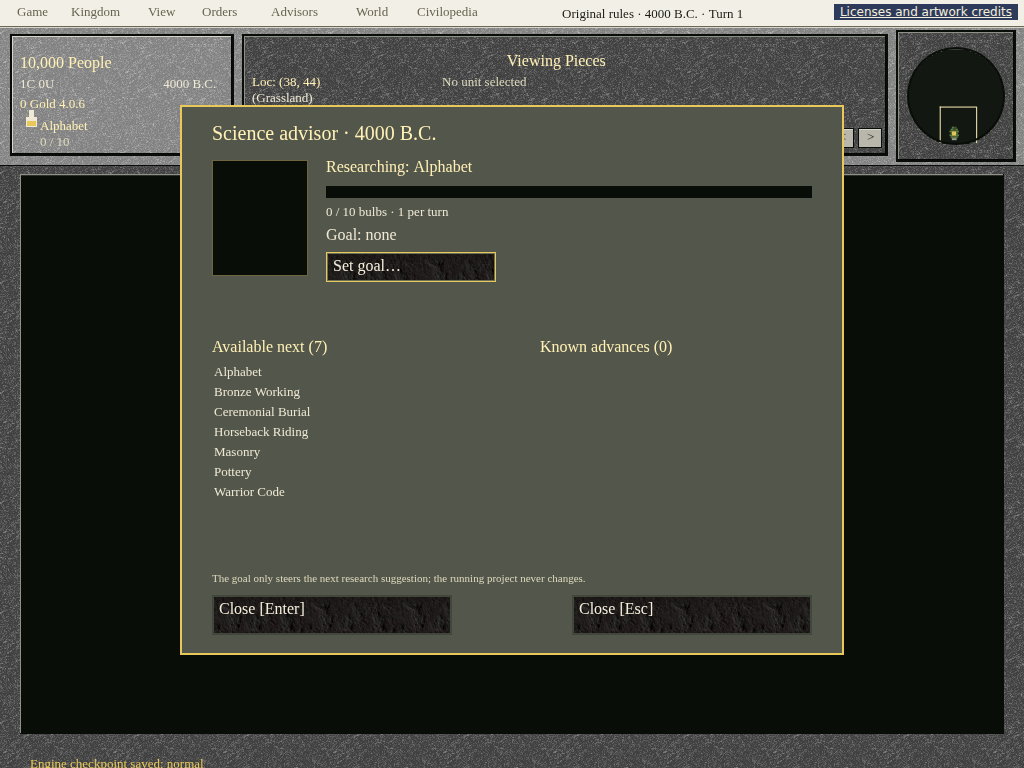
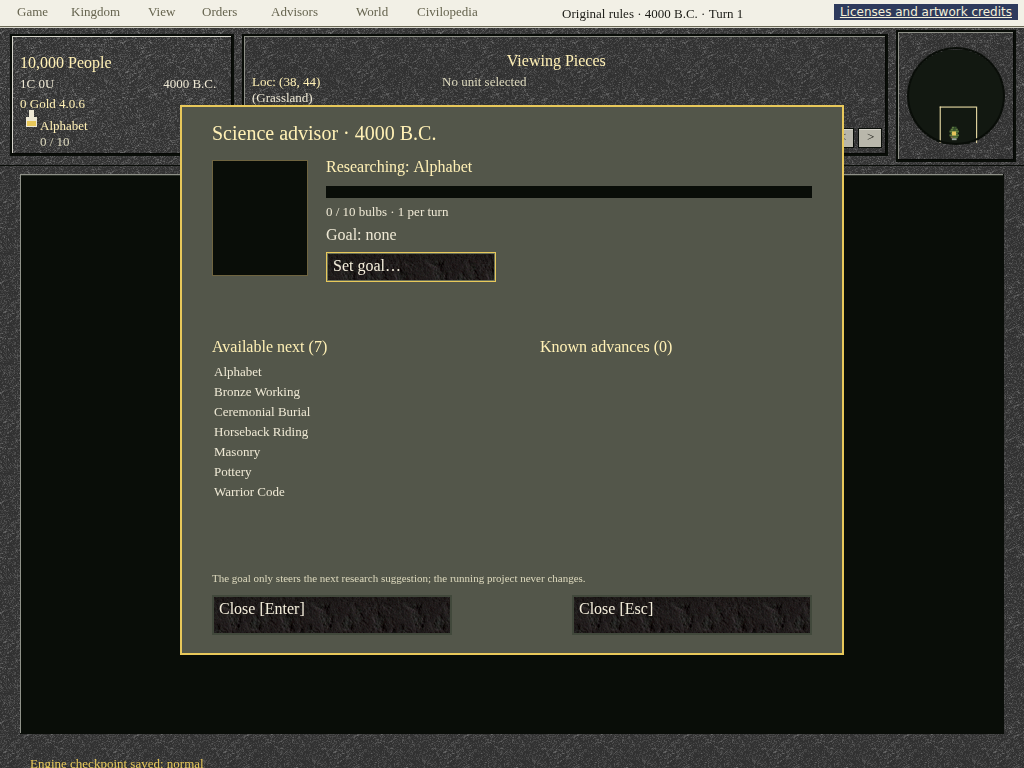
Match the original's dark band stone and Times face
The reference captures show a dark, speckled band, not the smooth light one
the first slice drew: a status-panel region of `original/moving-units.png`
averages about 60 grey with a standard deviation near 20, and the sunken info
panel is equally dark. Centre the install's own `City.gif` stone on those
measured tones instead of flattening it toward light grey, keeping the
speckle; regenerate the atlas manifest hashes and the guide screenshots.

The original's UI face reads as Times New Roman. Ask the browser for it first,
then the metric-compatible Liberation Serif and Tinos before DejaVu Serif and
Georgia, and load `LiberationSerif-Regular.ttf` before DejaVu on Linux (Windows
keeps `times.ttf`). Widths and shapes now track the original; the bitmap
rasterisation remains an explicit gap.

The docs also record the install's `Menu.txt` entries for the omitted `Cheat`
and `Map` menus and the measured stone tones. `make test` with CIVTOT_HOME,
the atlas manifest, the guide-screenshot script and the toolbar checks pass;
baseline and inventory are refreshed for the client source changes.

Changed region(s): [[0.0, 0.0312, 1.0, 0.2188]]

diff --git a/crates/totui/src/client/play.js b/crates/totui/src/client/play.js
@@ -110,7 +110,7 @@ function drawCanvas() {
         // Same serif face family as the desktop client, matching the
         // original's serif treatment (decision 0009, #439); the desktop client
         // loads a serif TTF for the same reason.
-        ctx.font = `${d.size}px Georgia,"Times New Roman","DejaVu Serif",serif`;
+        ctx.font = `${d.size}px "Times New Roman","Liberation Serif",Tinos,"DejaVu Serif",Georgia,serif`;
         ctx.textBaseline = "top";
         ctx.fillText(d.text, d.x, d.y);
         break;

diff --git a/crates/totui/src/client/play.html b/crates/totui/src/client/play.html
@@ -35,7 +35,10 @@
       border: 1px solid #ebd996;
       padding: 7px;
       font:
-        18px Georgia,
+        18px "Times New Roman",
+        "Liberation Serif",
+        Tinos,
+        Georgia,
         serif;
     }
     #error {

diff --git a/crates/totui/src/client/atlas.rs b/crates/totui/src/client/atlas.rs
@@ -162,11 +162,13 @@ impl Atlas {
         ] {
             add(name.into(), sheet, rect, Mask::default())?;
         }
-        // The source stone is a high-contrast speckle meant for small
-        // surfaces. Flatten it toward a quiet mid-grey so band text reads and
-        // the frame matches the original's smooth stone: keep a third of the
-        // variation around a chosen mid tone.
-        for (key, mid, contrast) in [("band", 138i32, 32i32), ("panel-mid", 76i32, 40)] {
+        // The reference capture (`docs/manual/screenshots/original/
+        // moving-units.png`) shows a dark, visibly speckled band: a sampled
+        // status-panel region averages ~60 grey with a standard deviation
+        // around 20, while the info panel is just as dark. Keep the sheet's
+        // variation, centred on a measured mid tone, so the texture matches
+        // the capture and light text still reads.
+        for (key, mid, contrast) in [("band", 62i32, 40i32), ("panel-mid", 58i32, 35)] {
             let sprite = sprites.get_mut(key).unwrap();
             let mut sum = 0u64;
             let mut n = 0u64;

diff --git a/crates/totui/src/client/desktop.rs b/crates/totui/src/client/desktop.rs
@@ -197,11 +197,17 @@ fn font_path() -> PathBuf {
     }
     #[cfg(not(windows))]
     {
-        // The original's serif treatment; DejaVu Serif ships with the common
-        // Linux font packages and falls back to the sans face if absent.
-        let serif = PathBuf::from("/usr/share/fonts/truetype/dejavu/DejaVuSerif.ttf");
-        if serif.exists() {
-            return serif;
+        // The original's serif is Times New Roman (decision 0009). Prefer the
+        // metric-compatible Liberation Serif, then DejaVu Serif, then the sans
+        // face if neither is installed.
+        for serif in [
+            "/usr/share/fonts/truetype/liberation/LiberationSerif-Regular.ttf",
+            "/usr/share/fonts/truetype/dejavu/DejaVuSerif.ttf",
+        ] {
+            let path = PathBuf::from(serif);
+            if path.exists() {
+                return path;
+            }
         }
         PathBuf::from("/usr/share/fonts/truetype/dejavu/DejaVuSans.ttf")
     }

diff --git a/docs/ui/original-frame.md b/docs/ui/original-frame.md
@@ -52,25 +52,41 @@ in the browser and desktop clients together.
 
 ## Type and texture
 
-The original draws a serif face from its own bitmap font; the install exposes
-no decodable font resource here. Both clients therefore use a serif system
-face: the browser asks for Georgia / Times New Roman / DejaVu Serif, and the
-desktop client loads `times.ttf` on Windows and `DejaVuSerif.ttf` on Linux,
-falling back to the sans face when absent. This is an approximation, recorded
-as a gap; it does not claim the original's glyphs.
+The original's UI face reads as Times New Roman, the Windows serif of its era;
+the install exposes no font resource of its own. Both clients therefore use a
+Times-style face rather than a generic serif: the browser asks for Times New
+Roman, then Liberation Serif / Tinos (metric-compatible clones), then DejaVu
+Serif / Georgia; the desktop client loads `times.ttf` on Windows and
+`LiberationSerif-Regular.ttf` on Linux, then DejaVu Serif, falling back to the
+sans face when none is present. This keeps the original's widths and shapes as
+closely as a system font can; it still does not claim the original's bitmap
+rasterisation, which remains a gap.
 
 The band stone is derived from the install's own `City.gif` panel crop that the
-client already used for its panels (`atlas.rs`): two flattened variants
-(`band` for raised stone, `panel-mid` for the sunken info panel and the side
-column) keep a third of the source variation around a chosen mid tone so band
-text stays readable. The atlas evidence (`docs/evidence/client-atlas-v2.json`)
-is regenerated for the two added sprites.
+client already used for its panels (`atlas.rs`). The reference capture shows a
+dark, visibly speckled band, not a smooth one: a sampled status-panel region
+(`docs/manual/screenshots/original/moving-units.png`, 20,100–210,135) averages
+about 60 grey with a standard deviation near 20, and the sunken info panel is
+equally dark. The two variants (`band` for raised stone, `panel-mid` for the
+sunken info panel and the side column) therefore keep the source speckle
+around those measured mid tones. The atlas evidence
+(`docs/evidence/client-atlas-v2.json`) is regenerated for the sprite hashes.
+
+The original menu bar's entries are specified by the install's own
+`Menu.txt` (`@GAME`, `@KINGDOM`, `@VIEW`, `@ORDERS`, `@ADVISORS`, `@WORLD`,
+`@CHEAT`, `@MAP`, `@PEDIA`); the client's menu labels and shortcuts follow it
+where a command exists (for example `Build &Road|r`, `&Fortify|f`,
+`Toggle Cheat Mode|Ctrl+K`).
 
 ## Explicit remaining differences
 
-- **Menus**: the captured bar also shows `Cheat` and `Map`. The client has no
-  commands for them yet, so they are omitted rather than drawn inert.
-- **Fonts**: a serif approximation, not the original bitmap face (above).
+- **Menus**: the captured bar also shows `Cheat` and `Map`. `Menu.txt` lists
+  their native entries (`Toggle Cheat Mode`, `Create Unit`, `Reveal Map`, the
+  scenario editors; `Select Map`, `Import Map`, `Export Map`). The client has
+  no commands for them yet — no cheat/scenario-edit contract and no multiple
+  map support — so they are omitted rather than drawn inert.
+- **Fonts**: a Times-style system face with matching widths, not the
+  original's bitmap rasterisation (above).
 - **Map planes**: the original's `Loc:` line carries the plane number and the
   arrows switch planes; the client has one surface plane, so `Loc:` omits the
   number. The arrows scroll the map horizontally; that behavior is inferred,
@@ -79,8 +95,9 @@ is regenerated for the two added sprites.
   details and mode across top") places more detail in the info panel than the
   current unit name, moves and health lines. The full branch needs a reference
   capture with a selected unit.
-- **Panel textures**: the exact crop of the original's band stone is not
-  identified; the flattened panel crop is an approximation.
+- **Panel textures**: the band uses the install's `City.gif` stone centred on
+  the capture's measured tone; the exact source tile and native tiling are not
+  identified, so the speckle pattern is not necessarily the same pixels.
 - **Window chrome**: the original capture includes its OS window border; the
   browser/desktop stage has none.
 - **City window**: still the boxed v0.14–v0.21 layout. The original's floating
